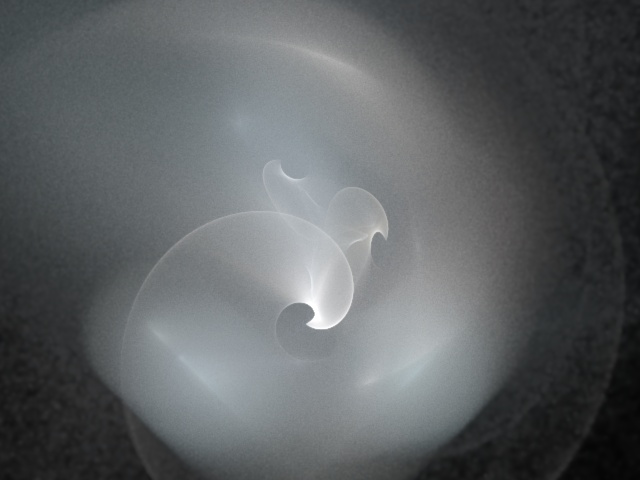
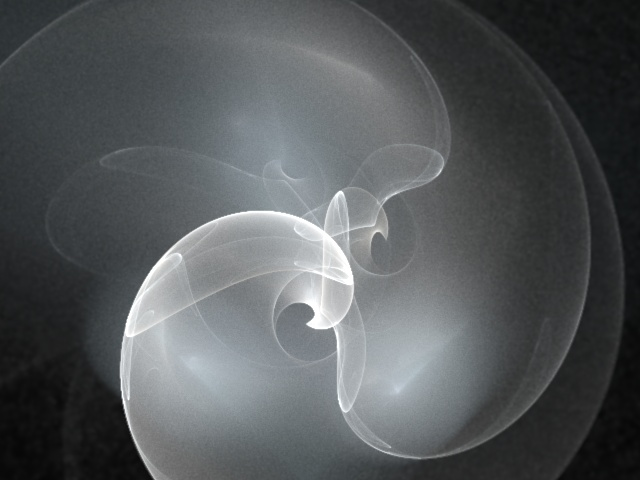
添加修改flame文件功能成功，配合flame_render.py渲染成功

diff --git a/flame_constructor.py b/flame_constructor.py
@@ -1,0 +1,13 @@
+# -*- coding: cp936 -*-
+from xml.dom import minidom
+import flame_render
+flame=minidom.parseString(file("template/template1.flame").read())
+a=flame.getElementsByTagName('flame')
+a=a[0]
+node1=a.attributes.getNamedItem('gamma')
+node1.value='3'
+a.attributes.setNamedItem(node1)
+flame.replaceChild(a,a)
+xml=flame.toxml()[22:]
+file("samples.flame",'w').write(xml)
+flam_render.render()

diff --git a/lab/flame_constructor.py b/lab/flame_constructor.py
@@ -1,0 +1,13 @@
+# -*- coding: cp936 -*-
+from xml.dom import minidom
+import flame_render
+flame=minidom.parseString(file("template/template1.flame").read())
+a=flame.getElementsByTagName('flame')
+a=a[0]
+node1=a.attributes.getNamedItem('gamma')
+node1.value='3'
+a.attributes.setNamedItem(node1)
+flame.replaceChild(a,a)
+xml=flame.toxml()[22:]
+file("samples.flame",'w').write(xml)
+flam_render.render()

diff --git a/flame_render.py b/flame_render.py
@@ -1,0 +1,9 @@
+# -*- coding: cp936 -*-
+import fr0stlib
+from fr0stlib.render import *
+def render():
+    c=wx.App()
+    flame=fr0stlib.load_flames("samples.flame")[0]
+    a=flam3_render(flame,[640,480],100)
+    b=wx.BitmapFromBuffer(640,480,a)
+    save_image("a.jpg",b)
